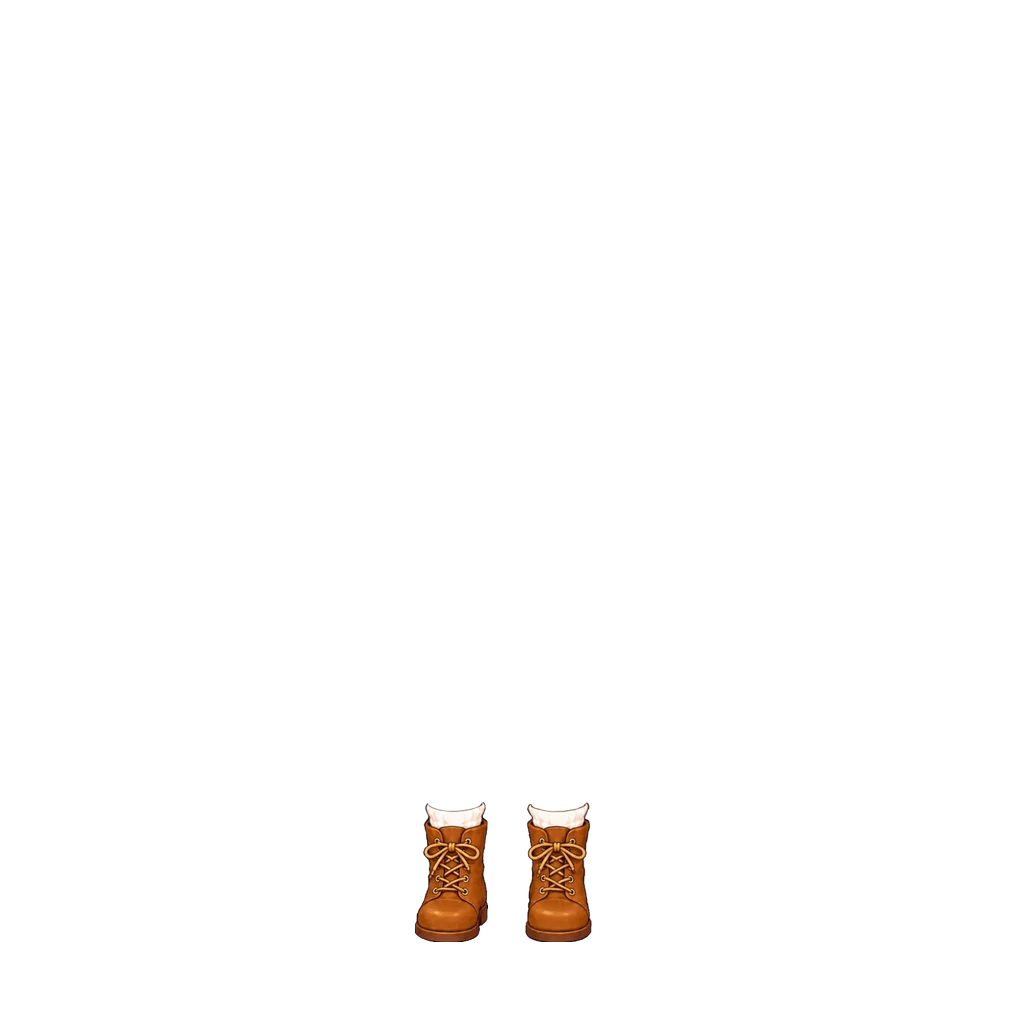
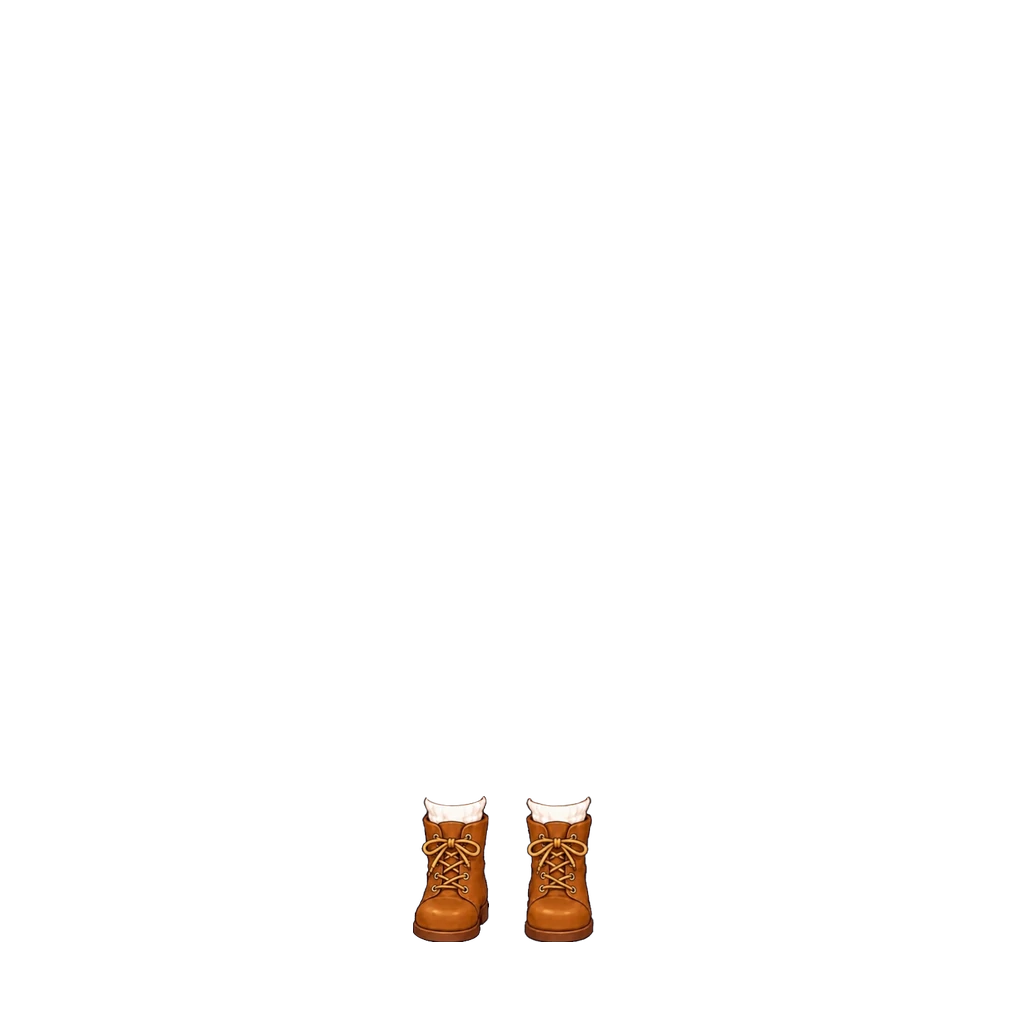
꼬마해적 신발(여아) 4% 더 크게 (#799)
밑창·발목 가운데를 고정한 채 두 짝 배율 0.6344→0.6598. img ?v=3.

Claude-Session: https://claude.ai/code/session_018maNuYqDfFyRSe9uKpZhPR

Changed region(s): [[0.4062, 0.7812, 0.5938, 0.9062]]

diff --git a/src/data/avatarEquipment.js b/src/data/avatarEquipment.js
@@ -383,8 +383,9 @@ export const AVATAR_CATALOG = [
      남아 해적 신발(shoes_pirate)은 그대로 두고 여아용 id 를 따로 둔다(꼬마해적 모자처럼).
      들꽃 신발과 같은 방식 — 두 짝을 따로 잘라 원화 발목 가운데(왼짝 x63.5 · 오른짝 x50.5)를 다리 가운데(x455 · x556)에,
      배율 0.61, 밑창 아래끝 y942, 오른짝 +1. 맨발 0px 가 되는 가장 작은 배율. 탑재 상자 (416,807,591,942).
-     [2026-10-03] 사용자 조정 — 두 짝 모두 4% 크게(배율 0.6344, 밑창·발목 가운데 고정). 탑재 상자 (415,802,592,942). img ?v=2. */
-  { id: "shoes_pirate_girl", slot: "shoes", label: "꼬마해적 신발", emoji: "🥾", price:DECOR_PRICE.common, rarity: "common", theme: "pirate", forGender: "girl", img: "assets/avatar/shoes/pirate-boots-girl.webp?v=2", thumb: "assets/avatar/thumb/shoes_pirate_girl.webp" },
+     [2026-10-03] 사용자 조정 — 두 짝 모두 4% 크게(배율 0.6344, 밑창·발목 가운데 고정). 탑재 상자 (415,802,592,942). img ?v=2.
+     [2026-10-03] 두 짝 4% 더 크게(배율 0.6598). 탑재 상자 (413,796,594,942). img ?v=3. */
+  { id: "shoes_pirate_girl", slot: "shoes", label: "꼬마해적 신발", emoji: "🥾", price:DECOR_PRICE.common, rarity: "common", theme: "pirate", forGender: "girl", img: "assets/avatar/shoes/pirate-boots-girl.webp?v=3", thumb: "assets/avatar/thumb/shoes_pirate_girl.webp" },
 
 ];
 

diff --git a/art-src/README.md b/art-src/README.md
@@ -575,4 +575,4 @@ bbox로 여백만 잘라내고 배포본은 높이 480px로 축소했다(전부 
 | thumb-src-top_space-girl.webp | **상점 목록 그림 여아 별빛 우주인 (top_space, 사용자 원화 2026-10-02)** — 입히는 옷이 아니라 상점 카드에만 보이는 그림. 292×309 투명 배경, 세로 160px 로 줄여 탑재(thumbGirl ?v=5) | avatar/thumb/top_space-girl.webp |
 | wildflower-boots-girl-src.webp | **들꽃 신발 원화 여아 (사용자 원화 2026-10-02)** — 264×191 투명 배경, 올리브 끈 부츠 두 짝(흰 양말 목, 주황 끈·밑창). 두 짝(x0~108 · x159~263)을 따로 잘라 배율 0.64 로 줄이고, 발목 가운데를 여아 다리 가운데(x455·x556)에, 밑창 아래끝을 y942 에 맞춤. 맨발 0px. 탑재 상자 (416,820,590,942). 상점 그림은 원화를 세로 160px 로 **[2026-10-03 조정]** 화면 오른쪽 짝만 오른쪽으로 2·2% 크게(0.6528). 탑재 상자 (416,817,593,942) · img ?v=2. 이어서 오른쪽 짝만 2% 더 크게(0.6659), 상자 (416,815,594,942) · img ?v=3. 다시 오른쪽 짝만 1% 더 크게(0.6725), 상자 (416,814,594,942) · img ?v=4 | avatar/shoes/wildflower-boots-girl.webp · thumb/shoes_wildflower.webp |
 | strawberry-shoes-girl-src.webp | **딸기 신발 원화 여아 (사용자 원화 2026-10-03)** — 253×156 투명 배경, 빨간 메리제인 + 흰 프릴 양말 두 짝. 두 짝(x0~100 · x156~252)을 따로 잘라 배율 0.66, 양말 가운데를 여아 다리 가운데(x455·x556)에 두고 왼짝 -3·오른짝 +1, 밑창 아래끝 y944. 맨발 0px. 탑재 상자 (417,841,590,944). 상점 그림은 원화를 세로 160px 로 | avatar/shoes/strawberry-shoes-girl.webp · thumb/shoes_strawberry.webp |
-| pirate-boots-girl-src.webp | **꼬마해적 신발 원화 여아 (사용자 원화 2026-10-03)** — 268×221 투명 배경, 갈색 끈 부츠 + 흰 양말 두 짝. 두 짝(x0~114 · x162~267)을 따로 잘라 배율 0.61, 발목 가운데를 여아 다리 가운데(x455·x556)에 두고 오른짝 +1, 밑창 아래끝 y942. 맨발 0px. 탑재 상자 (416,807,591,942). **[2026-10-03 조정]** 두 짝 4% 크게(0.6344), 상자 (415,802,592,942) · img ?v=2. 상점 그림은 원화를 세로 160px 로 | avatar/shoes/pirate-boots-girl.webp · thumb/shoes_pirate_girl.webp |
+| pirate-boots-girl-src.webp | **꼬마해적 신발 원화 여아 (사용자 원화 2026-10-03)** — 268×221 투명 배경, 갈색 끈 부츠 + 흰 양말 두 짝. 두 짝(x0~114 · x162~267)을 따로 잘라 배율 0.61, 발목 가운데를 여아 다리 가운데(x455·x556)에 두고 오른짝 +1, 밑창 아래끝 y942. 맨발 0px. 탑재 상자 (416,807,591,942). **[2026-10-03 조정]** 두 짝 4% 크게(0.6344), 상자 (415,802,592,942) · img ?v=2. 다시 4% 더 크게(0.6598), 상자 (413,796,594,942) · img ?v=3. 상점 그림은 원화를 세로 160px 로 | avatar/shoes/pirate-boots-girl.webp · thumb/shoes_pirate_girl.webp |
